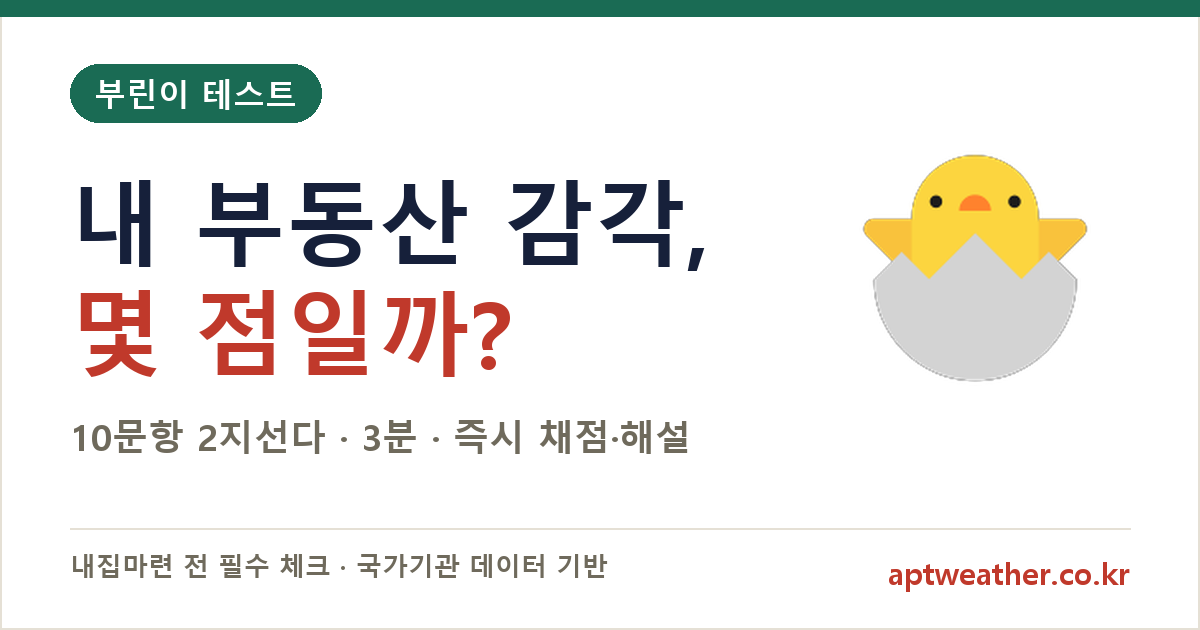
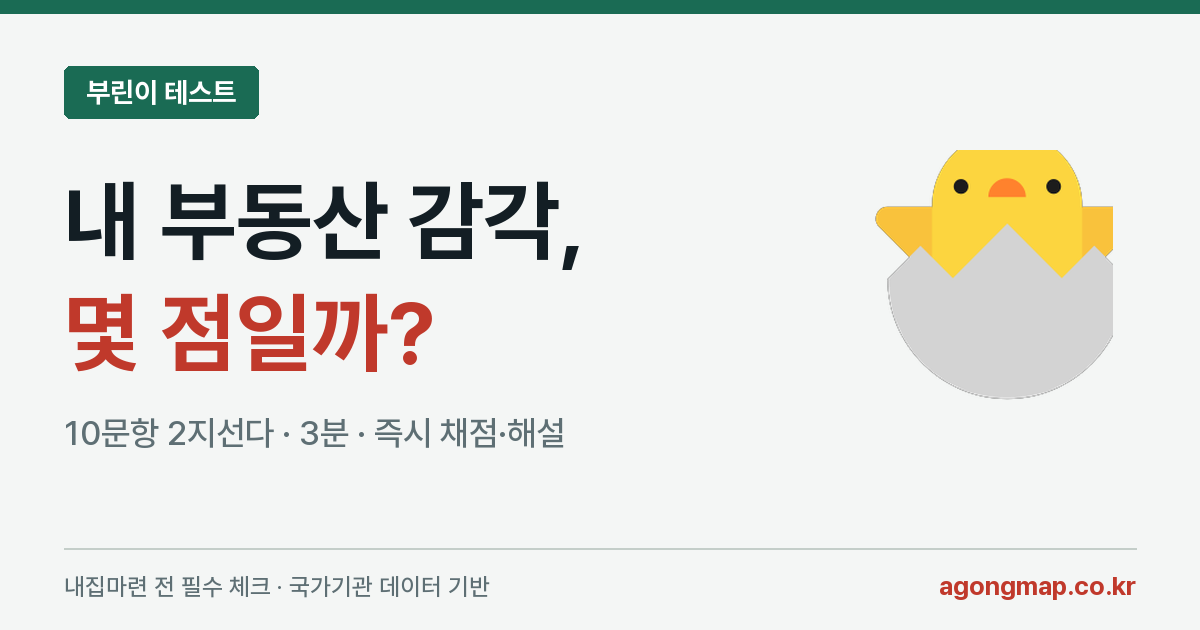
퀴즈 3종 OG 카드 종별 이미지 + 대결 링크 세트별 분기
- tools/make_og_cards.py: 랜딩 쿨 토큰·Segoe 컬러 이모지로 1200x630 3장 생성기
- og-investor.png(🦅)·og-redev.png(🏗) 신설, og-test.png 재생성(옛 도메인 aptweather→agongmap 교정)
- 두 랜딩 head og:image·twitter:image를 전용 이미지로 교체
- challengeURL 세트별 slug 분기: 투자자→investor-test, 재건축→redev-test (기존 burini 하드코딩 → 종별 OG로 언펄)

diff --git a/investor-test/index.html b/investor-test/index.html
@@ -40,12 +40,12 @@
 <meta property="og:title" content="투자자 테스트 — 통념을 뒤집을 준비가 됐나?">
 <meta property="og:description" content="10문항 2지선다, 3분이면 끝. 호재를 악재로, 악재를 호재로 — 통념을 뒤집어야 풀리는 사이클·금리·수급 게임. 즉시 채점·해설.">
 <meta property="og:url" content="https://www.agongmap.co.kr/investor-test/">
-<meta property="og:image" content="https://www.agongmap.co.kr/og-test.png">
+<meta property="og:image" content="https://www.agongmap.co.kr/og-investor.png">
 <meta property="og:image:width" content="1200">
 <meta property="og:image:height" content="630">
 <meta name="twitter:card" content="summary_large_image">
 <meta name="twitter:title" content="투자자 테스트 — 통념을 뒤집을 준비가 됐나?">
-<meta name="twitter:image" content="https://www.agongmap.co.kr/og-test.png">
+<meta name="twitter:image" content="https://www.agongmap.co.kr/og-investor.png">
 <script type="application/ld+json">
 {
   "@context": "https://schema.org",

diff --git a/redev-test/index.html b/redev-test/index.html
@@ -40,12 +40,12 @@
 <meta property="og:title" content="재건축·재개발 테스트 — 이 사업, 사업성 있을까?">
 <meta property="og:description" content="10문항 2지선다, 3분이면 끝. 대지지분·용적률·조합원 수로 정비사업 사업성을 읽어내는 감각을 즉시 채점·해설.">
 <meta property="og:url" content="https://www.agongmap.co.kr/redev-test/">
-<meta property="og:image" content="https://www.agongmap.co.kr/og-test.png">
+<meta property="og:image" content="https://www.agongmap.co.kr/og-redev.png">
 <meta property="og:image:width" content="1200">
 <meta property="og:image:height" content="630">
 <meta name="twitter:card" content="summary_large_image">
 <meta name="twitter:title" content="재건축·재개발 테스트 — 이 사업, 사업성 있을까?">
-<meta name="twitter:image" content="https://www.agongmap.co.kr/og-test.png">
+<meta name="twitter:image" content="https://www.agongmap.co.kr/og-redev.png">
 <script type="application/ld+json">
 {
   "@context": "https://schema.org",

diff --git a/index.html b/index.html
@@ -1285,8 +1285,10 @@ function readChallenge(){
   return null;
 }
 function challengeURL(){
-  // /burini-test/가 파라미터를 홈으로 넘겨준다(OG는 퀴즈 카드로 뜨게).
-  return `https://www.agongmap.co.kr/burini-test/?c=${qScore}&s=${curSet}&q=${curSeed.toString(36)}`;
+  // 세트별 랜딩이 파라미터를 홈으로 넘겨준다(OG는 세트별 퀴즈 카드로 뜨게).
+  // 세 랜딩 모두 ?c=&s= 대결 파라미터를 홈으로 리다이렉트하므로 라우팅은 동일하다.
+  const slug=curSet==='investor'?'investor-test':curSet==='calc'?'redev-test':'burini-test';
+  return `https://www.agongmap.co.kr/${slug}/?c=${qScore}&s=${curSet}&q=${curSeed.toString(36)}`;
 }
 function renderChalBar(){
   const b=document.getElementById('chal-bar');

diff --git a/tools/make_og_cards.py b/tools/make_og_cards.py
@@ -1,0 +1,140 @@
+# -*- coding: utf-8 -*-
+"""퀴즈 3종 OG 카드 (1200x630) — 카카오톡·트위터 공유 미리보기.
+
+og-test.png(부린이)·og-investor.png·og-redev.png 세 장을 같은 템플릿으로 찍는다.
+톤은 랜딩 페이지(/burini-test/ 등)의 쿨 토큰과 1:1로 맞춘다:
+  ink #131e24 / paper #f4f6f5 / green #1a6b54 / red #c0392b / muted #5e6f74 / line #c4cec9
+
+이모지는 Segoe UI Emoji(컬러)로 렌더한다 — 원본 og-test.png의 병아리와 동일 서체다.
+문구는 각 랜딩의 h1/부제와 대응한다. 랜딩을 고치면 이 문구도 같이 볼 것.
+
+사용:  python tools/make_og_cards.py
+"""
+import os
+from PIL import Image, ImageDraw, ImageFont
+
+W, H = 1200, 630
+
+# 랜딩 페이지 :root 토큰과 동일 (쿨 계열)
+PAPER = (244, 246, 245)   # --paper #f4f6f5
+INK   = (19, 30, 36)      # --ink   #131e24
+RED   = (192, 57, 43)     # 상승/훅 라인 #c0392b
+GREEN = (26, 107, 84)     # --green #1a6b54
+MUTED = (94, 111, 116)    # --muted #5e6f74
+LINE  = (196, 206, 201)   # --line  #c4cec9
+WHITE = (255, 255, 255)
+
+ROOT = os.path.dirname(os.path.dirname(os.path.abspath(__file__)))
+FONT_DIR = os.path.join(ROOT, 'fonts') if os.path.exists(os.path.join(ROOT, 'fonts')) \
+    else os.path.join(os.path.dirname(os.path.abspath(__file__)), 'fonts')
+FONT_FILES = {'Bold': 'Pretendard-Bold.subset.ttf', 'Medium': 'Pretendard-Medium.subset.ttf'}
+EMOJI_FONT = 'C:/Windows/Fonts/seguiemj.ttf'
+
+# (출력파일, 칩, h1 1줄(먹색), h1 2줄(빨강·훅), 부제, 푸터 좌측, 이모지)
+CARDS = [
+    ('og-test.png', '부린이 테스트',
+     '내 부동산 감각,', '몇 점일까?',
+     '10문항 2지선다 · 3분 · 즉시 채점·해설',
+     '내집마련 전 필수 체크 · 국가기관 데이터 기반', '🐣'),
+    ('og-investor.png', '투자자 테스트',
+     '통념을 뒤집을', '준비가 됐나?',
+     '10문항 2지선다 · 3분 · 즉시 채점·해설',
+     '규제·금리·수급의 진짜 게임 · 국가기관 데이터 기반', '🦅'),
+    ('og-redev.png', '재건축·재개발 테스트',
+     '이 재건축,', '사업성 있을까?',
+     '10문항 2지선다 · 3분 · 즉시 채점·해설',
+     '대지지분·용적률·조합원 수 · 국가기관 데이터 기반', '🏗'),
+]
+
+
+def font(size, weight='Bold'):
+    return ImageFont.truetype(os.path.join(FONT_DIR, FONT_FILES[weight]), size)
+
+
+def emoji_font(size):
+    return ImageFont.truetype(EMOJI_FONT, size)
+
+
+def fit_width(text, target, weight='Bold', hi=96, lo=28):
+    """target 픽셀 폭에 들어가는 가장 큰 폰트."""
+    pr = ImageDraw.Draw(Image.new('RGB', (4, 4)))
+    best = lo
+    while lo <= hi:
+        mid = (lo + hi) // 2
+        bb = pr.textbbox((0, 0), text, font=font(mid, weight))
+        if bb[2] - bb[0] <= target:
+            best = mid; lo = mid + 1
+        else:
+            hi = mid - 1
+    return font(best, weight)
+
+
+def draw_emoji(img, ch, box):
+    """box(=(x0,y0,x1,y1)) 안에 컬러 이모지를 중앙 배치. Segoe는 고정 비트맵이라
+    큰 사이즈로 렌더 후 리샘플해 선명도를 확보한다."""
+    bx0, by0, bx1, by1 = box
+    bw, bh = bx1 - bx0, by1 - by0
+    render_px = 240  # Segoe 컬러 글리프의 실제 비트맵 크기
+    tile = Image.new('RGBA', (render_px + 40, render_px + 40), (0, 0, 0, 0))
+    td = ImageDraw.Draw(tile)
+    ef = emoji_font(render_px)
+    td.text((20, 20), ch, font=ef, embedded_color=True)
+    bb = tile.getbbox()
+    if bb:
+        tile = tile.crop(bb)
+    s = min(bw / tile.width, bh / tile.height)
+    nw, nh = max(1, int(tile.width * s)), max(1, int(tile.height * s))
+    tile = tile.resize((nw, nh), Image.LANCZOS)
+    img.alpha_composite(tile, (bx0 + (bw - nw) // 2, by0 + (bh - nh) // 2))
+
+
+def make(out, chip, h1a, h1b, sub, foot, emoji):
+    img = Image.new('RGBA', (W, H), PAPER + (255,))
+    d = ImageDraw.Draw(img)
+
+    # 상단 그린 바
+    d.rectangle([0, 0, W, 13], fill=GREEN)
+
+    MX = 64  # 좌우 여백
+
+    # 이모지 (우측). 텍스트가 침범하지 않도록 먼저 영역을 잡는다.
+    draw_emoji(img, emoji, (852, 150, 1136, 400))
+
+    # 칩 (그린 알약)
+    cf = font(28, 'Bold')
+    cbb = d.textbbox((0, 0), chip, font=cf)
+    cw, ch = cbb[2] - cbb[0], cbb[3] - cbb[1]
+    px, py = 22, 13
+    d.rounded_rectangle([MX, 66, MX + cw + px * 2, 66 + ch + py * 2], radius=6, fill=GREEN)
+    d.text((MX + px - cbb[0], 66 + py - cbb[1]), chip, font=cf, fill=WHITE)
+
+    # 헤드라인 2줄 — 텍스트 폭을 이모지 왼쪽(~x=820)까지로 제한
+    tw = 820 - MX
+    hf = fit_width(max([h1a, h1b], key=len), tw, hi=88)
+    asc, desc = hf.getmetrics()
+    lh = asc + desc
+    y1 = 168
+    d.text((MX, y1), h1a, font=hf, fill=INK)
+    d.text((MX, y1 + int(lh * 1.06)), h1b, font=hf, fill=RED)
+
+    # 부제
+    sf = font(34, 'Medium')
+    sy = y1 + int(lh * 1.06) + lh + 26
+    d.text((MX, sy), sub, font=sf, fill=MUTED)
+
+    # 하단 구분선 + 푸터
+    fy = 548
+    d.line([MX, fy, W - MX, fy], fill=LINE, width=2)
+    d.text((MX, fy + 24), foot, font=font(24, 'Medium'), fill=MUTED)
+    dom = 'agongmap.co.kr'
+    df = font(26, 'Bold')
+    dbb = d.textbbox((0, 0), dom, font=df)
+    d.text((W - MX - (dbb[2] - dbb[0]), fy + 22), dom, font=df, fill=RED)
+
+    img.convert('RGB').save(os.path.join(ROOT, out), 'PNG', optimize=True)
+    return out
+
+
+if __name__ == '__main__':
+    for c in CARDS:
+        print('written ->', make(*c))
